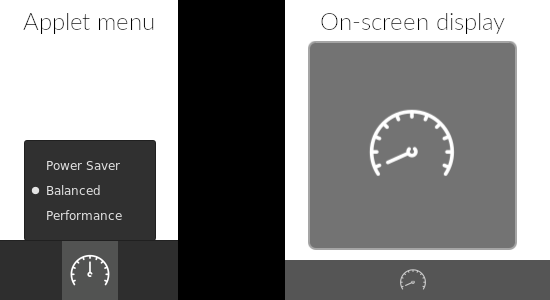
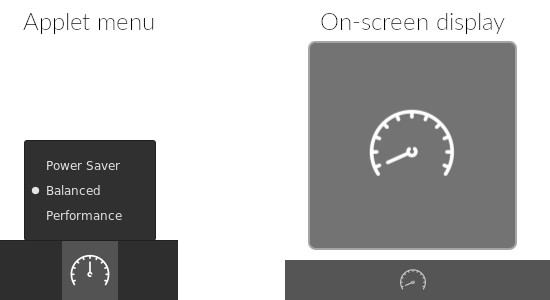
[power-profiles@rcalixte] Version 1.0.1 (#4945)

Changed region(s): [[0.3091, 0.0, 0.5255, 1.0]]

diff --git a/power-profiles@rcalixte/files/power-profiles@rcalixte/5.4/applet.js b/power-profiles@rcalixte/files/power-profiles@rcalixte/5.4/applet.js
@@ -65,31 +65,20 @@ PowerProfilesApplet.prototype = {
       return;
     }
 
-    this.activeProfile = this._profilesProxy.ActiveProfile;
-    this.performanceDegraded = this._profilesProxy.PerformanceDegraded;
-    this.profiles = this._profilesProxy.Profiles;
-    this.activeProfileHolds = this._profilesProxy.ActiveProfileHolds;
+    this.ActiveProfile = this._profilesProxy.ActiveProfile;
+    this.PerformanceDegraded = this._profilesProxy.PerformanceDegraded;
+    this.Profiles = this._profilesProxy.Profiles;
+    this.ActiveProfileHolds = this._profilesProxy.ActiveProfileHolds;
     this.iconMap = new Map();
-    this.iconMap.set(this.profiles[0].Profile.unpack(), metadata.path + "/../icons/profile-0-symbolic.svg");
-    this.iconMap.set(this.profiles.slice(-1)[0].Profile.unpack(), metadata.path + "/../icons/profile-100-symbolic.svg");
-    if (this.iconMap.size != this.profiles.length)
-      this.iconMap.set(this.profiles[1].Profile.unpack(), metadata.path + "/../icons/profile-50-symbolic.svg");
+    this.iconMap.set(this.Profiles[0].Profile.unpack(), metadata.path + "/../icons/profile-0-symbolic.svg");
+    this.iconMap.set(this.Profiles.slice(-1)[0].Profile.unpack(), metadata.path + "/../icons/profile-100-symbolic.svg");
+    if (this.iconMap.size != this.Profiles.length)
+      this.iconMap.set(this.Profiles[1].Profile.unpack(), metadata.path + "/../icons/profile-50-symbolic.svg");
 
     this._proxyId = this._profilesProxy.connect("g-properties-changed", (proxy, changed, invalidated) => {
       for (let [changedProperty, changedValue] of Object.entries(changed.deepUnpack())) {
-        switch (changedProperty) {
-          case "ActiveProfile":
-            this.activeProfile = changedValue.deepUnpack();
-            break;
-          case "PerformanceDegraded":
-            this.performanceDegraded = changedValue.deepUnpack();
-            break;
-          case "Profiles":
-            this.performanceDegraded = changedValue.deepUnpack();
-            break;
-          case "ActiveProfileHolds":
-            this.activeProfileHolds = changedValue.deepUnpack();
-        }
+        if (["ActiveProfile", "ActiveProfileHolds", "PerformanceDegraded", "Profiles"].includes(changedProperty))
+            this[changedProperty] = changedValue.deepUnpack();
         this._update();
       }
     });
@@ -116,14 +105,14 @@ PowerProfilesApplet.prototype = {
   },
 
   _updateApplet() {
-    this.set_applet_icon_path(this.iconMap.get(this.activeProfile));
+    this.set_applet_icon_path(this.iconMap.get(this.ActiveProfile));
     this.set_applet_label("");
-    this.set_applet_tooltip(_("Current Profile:") + ` ${POWER_PROFILES[this.activeProfile]}`);
+    this.set_applet_tooltip(_("Current Profile:") + ` ${POWER_PROFILES[this.ActiveProfile]}`);
 
     this.menu.addMenuItem(this.contentSection);
 
-    if (this.performanceDegraded) {
-      let perfText = _("Performance Degraded:") + ` ${this.performanceDegraded}`;
+    if (this.PerformanceDegraded) {
+      let perfText = _("Performance Degraded:") + ` ${this.PerformanceDegraded}`;
       let perfItem = new PopupMenu.PopupIconMenuItem(perfText, "dialog-warning-symbolic",
         St.IconType.SYMBOLIC, { reactive: false });
       this.menu.addMenuItem(perfItem);
@@ -131,9 +120,9 @@ PowerProfilesApplet.prototype = {
       this.menu.addMenuItem(new PopupMenu.PopupSeparatorMenuItem());
     }
 
-    if (this.activeProfileHolds.length > 0) {
-      let holdAppId = this.activeProfileHolds[0].ApplicationId.unpack();
-      let holdReason = this.activeProfileHolds[0].Reason.unpack();
+    if (this.ActiveProfileHolds.length > 0) {
+      let holdAppId = this.ActiveProfileHolds[0].ApplicationId.unpack();
+      let holdReason = this.ActiveProfileHolds[0].Reason.unpack();
       let activeText = _("Active Profile Holds:");
       let activeItem = new PopupMenu.PopupMenuItem(activeText, { reactive: false });
       this.menu.addMenuItem(activeItem);
@@ -146,10 +135,10 @@ PowerProfilesApplet.prototype = {
       this.menu.addMenuItem(new PopupMenu.PopupSeparatorMenuItem());
     }
 
-    for (let profileNum = 0; profileNum < this.profiles.length; profileNum++) {
-      let profileName = this.profiles[profileNum].Profile.unpack();
+    for (let profileNum = 0; profileNum < this.Profiles.length; profileNum++) {
+      let profileName = this.Profiles[profileNum].Profile.unpack();
       let activeItem;
-      if (profileName == this.activeProfile) {
+      if (profileName == this.ActiveProfile) {
         activeItem = true;
         this.profileIndex = profileNum;
       } else {
@@ -169,7 +158,7 @@ PowerProfilesApplet.prototype = {
 
   _changeProfile(newProfile) {
     this._profilesProxy.ActiveProfile = newProfile;
-    this.activeProfile = this._profilesProxy.ActiveProfile;
+    this.ActiveProfile = this._profilesProxy.ActiveProfile;
   },
 
   _setKeybinding() {
@@ -182,24 +171,24 @@ PowerProfilesApplet.prototype = {
   },
 
   _switchToProfileByIndex(newIndex) {
-    let nextProfile = this.profiles[newIndex].Profile.unpack();
+    let nextProfile = this.Profiles[newIndex].Profile.unpack();
     if (newIndex != this.profileIndex)
       this._changeProfile(nextProfile);
 
     if (this.showOSD)
       Main.osdWindowManager.show(-1,
-        Gio.Icon.new_for_string(this.iconMap.get(this.activeProfile)));
+        Gio.Icon.new_for_string(this.iconMap.get(this.ActiveProfile)));
   },
 
   _previousProfile() {
     let nextIndex = this.profileIndex - 1 < 0 ?
-      (this.cycleProfiles ? this.profiles.length - 1 : this.profileIndex) :
+      (this.cycleProfiles ? this.Profiles.length - 1 : this.profileIndex) :
       this.profileIndex - 1;
     this._switchToProfileByIndex(nextIndex);
   },
 
   _nextProfile() {
-    let nextIndex = this.profileIndex + 1 >= this.profiles.length ?
+    let nextIndex = this.profileIndex + 1 >= this.Profiles.length ?
       (this.cycleProfiles ? 0 : this.profileIndex) :
       this.profileIndex + 1;
     this._switchToProfileByIndex(nextIndex);

diff --git a/power-profiles@rcalixte/README.md b/power-profiles@rcalixte/README.md
@@ -1,26 +1,31 @@
 POWER PROFILES
 ==============
+
 An applet to modify the current system power profile as determined by
 `power-profiles-daemon` (accessible via the command-line as `powerprofilesctl`
 if installed correctly)
 
 DESCRIPTION
 -----------
+
 This is an applet that will set the profile via the input menu or keyboard
 shortcuts.
 
 The following options are selectable from the applet menu (see the screenshot):
- * Power Saver
- * Balanced
- * Performance (if available)
+
+* Power Saver
+* Balanced
+* Performance (if available)
 
 There are two customizable keyboard shortcuts for switching profiles:
- * Previous profile
- * Next profile
+
+* Previous profile
+* Next profile
 
 There are also settings for customizing the operation of the keyboard
 shortcuts:
- * Cycle through profiles when using keyboard shortcuts (Default: `false`)
+
+* Cycle through profiles when using keyboard shortcuts (Default: `false`)
 
  This will determine whether the keyboard shortcuts will cycle through the
  available system power profiles.
@@ -29,8 +34,8 @@ shortcuts:
  will stay set at 'Power Saver' and if the option is set to `true`, the
  profile will change to 'Performance' if it is available or 'Balanced'
  otherwise.
- 
- * On-screen display for keyboard shortcuts (Default: `true`)
+
+* On-screen display for keyboard shortcuts (Default: `true`)
 
  This will control whether there is an on-screen display (see the screenshot)
  if a keyboard shortcut defined via the applet configuration settings is
@@ -40,19 +45,23 @@ shortcuts:
 
 COMPATIBILITY
 -------------
+
 This applet has been tested to be compatible with Cinnamon 5.6+ but is
 supported for Cinnamon 5.4+.
 
 DEPENDENCIES
 ------------
+
 This applet depends on the following packages being installed:
- * [power-profiles-daemon](https://gitlab.freedesktop.org/hadess/power-profiles-daemon)
+
+* [power-profiles-daemon](https://gitlab.freedesktop.org/hadess/power-profiles-daemon)
 
 On Debian-based, Arch-based, Fedora-based, and Gentoo-based systems, the
 package is available in the default repositories as `power-profiles-daemon`.
 
 KNOWN ISSUES
 ------------
+
 The `power-profiles-daemon` package and daemon conflicts with TLP and other
 similar applications - there should only be one such tool installed and
 running to ensure overall stability.

diff --git a/power-profiles@rcalixte/CHANGELOG.md b/power-profiles@rcalixte/CHANGELOG.md
@@ -1,3 +1,10 @@
 
+### 1.0.1
+
+* Fixing a minor bug
+* Markdown cleanup
+* Minor screenshot edit
+
 ### 1.0
- * Initial release
+
+* Initial release
